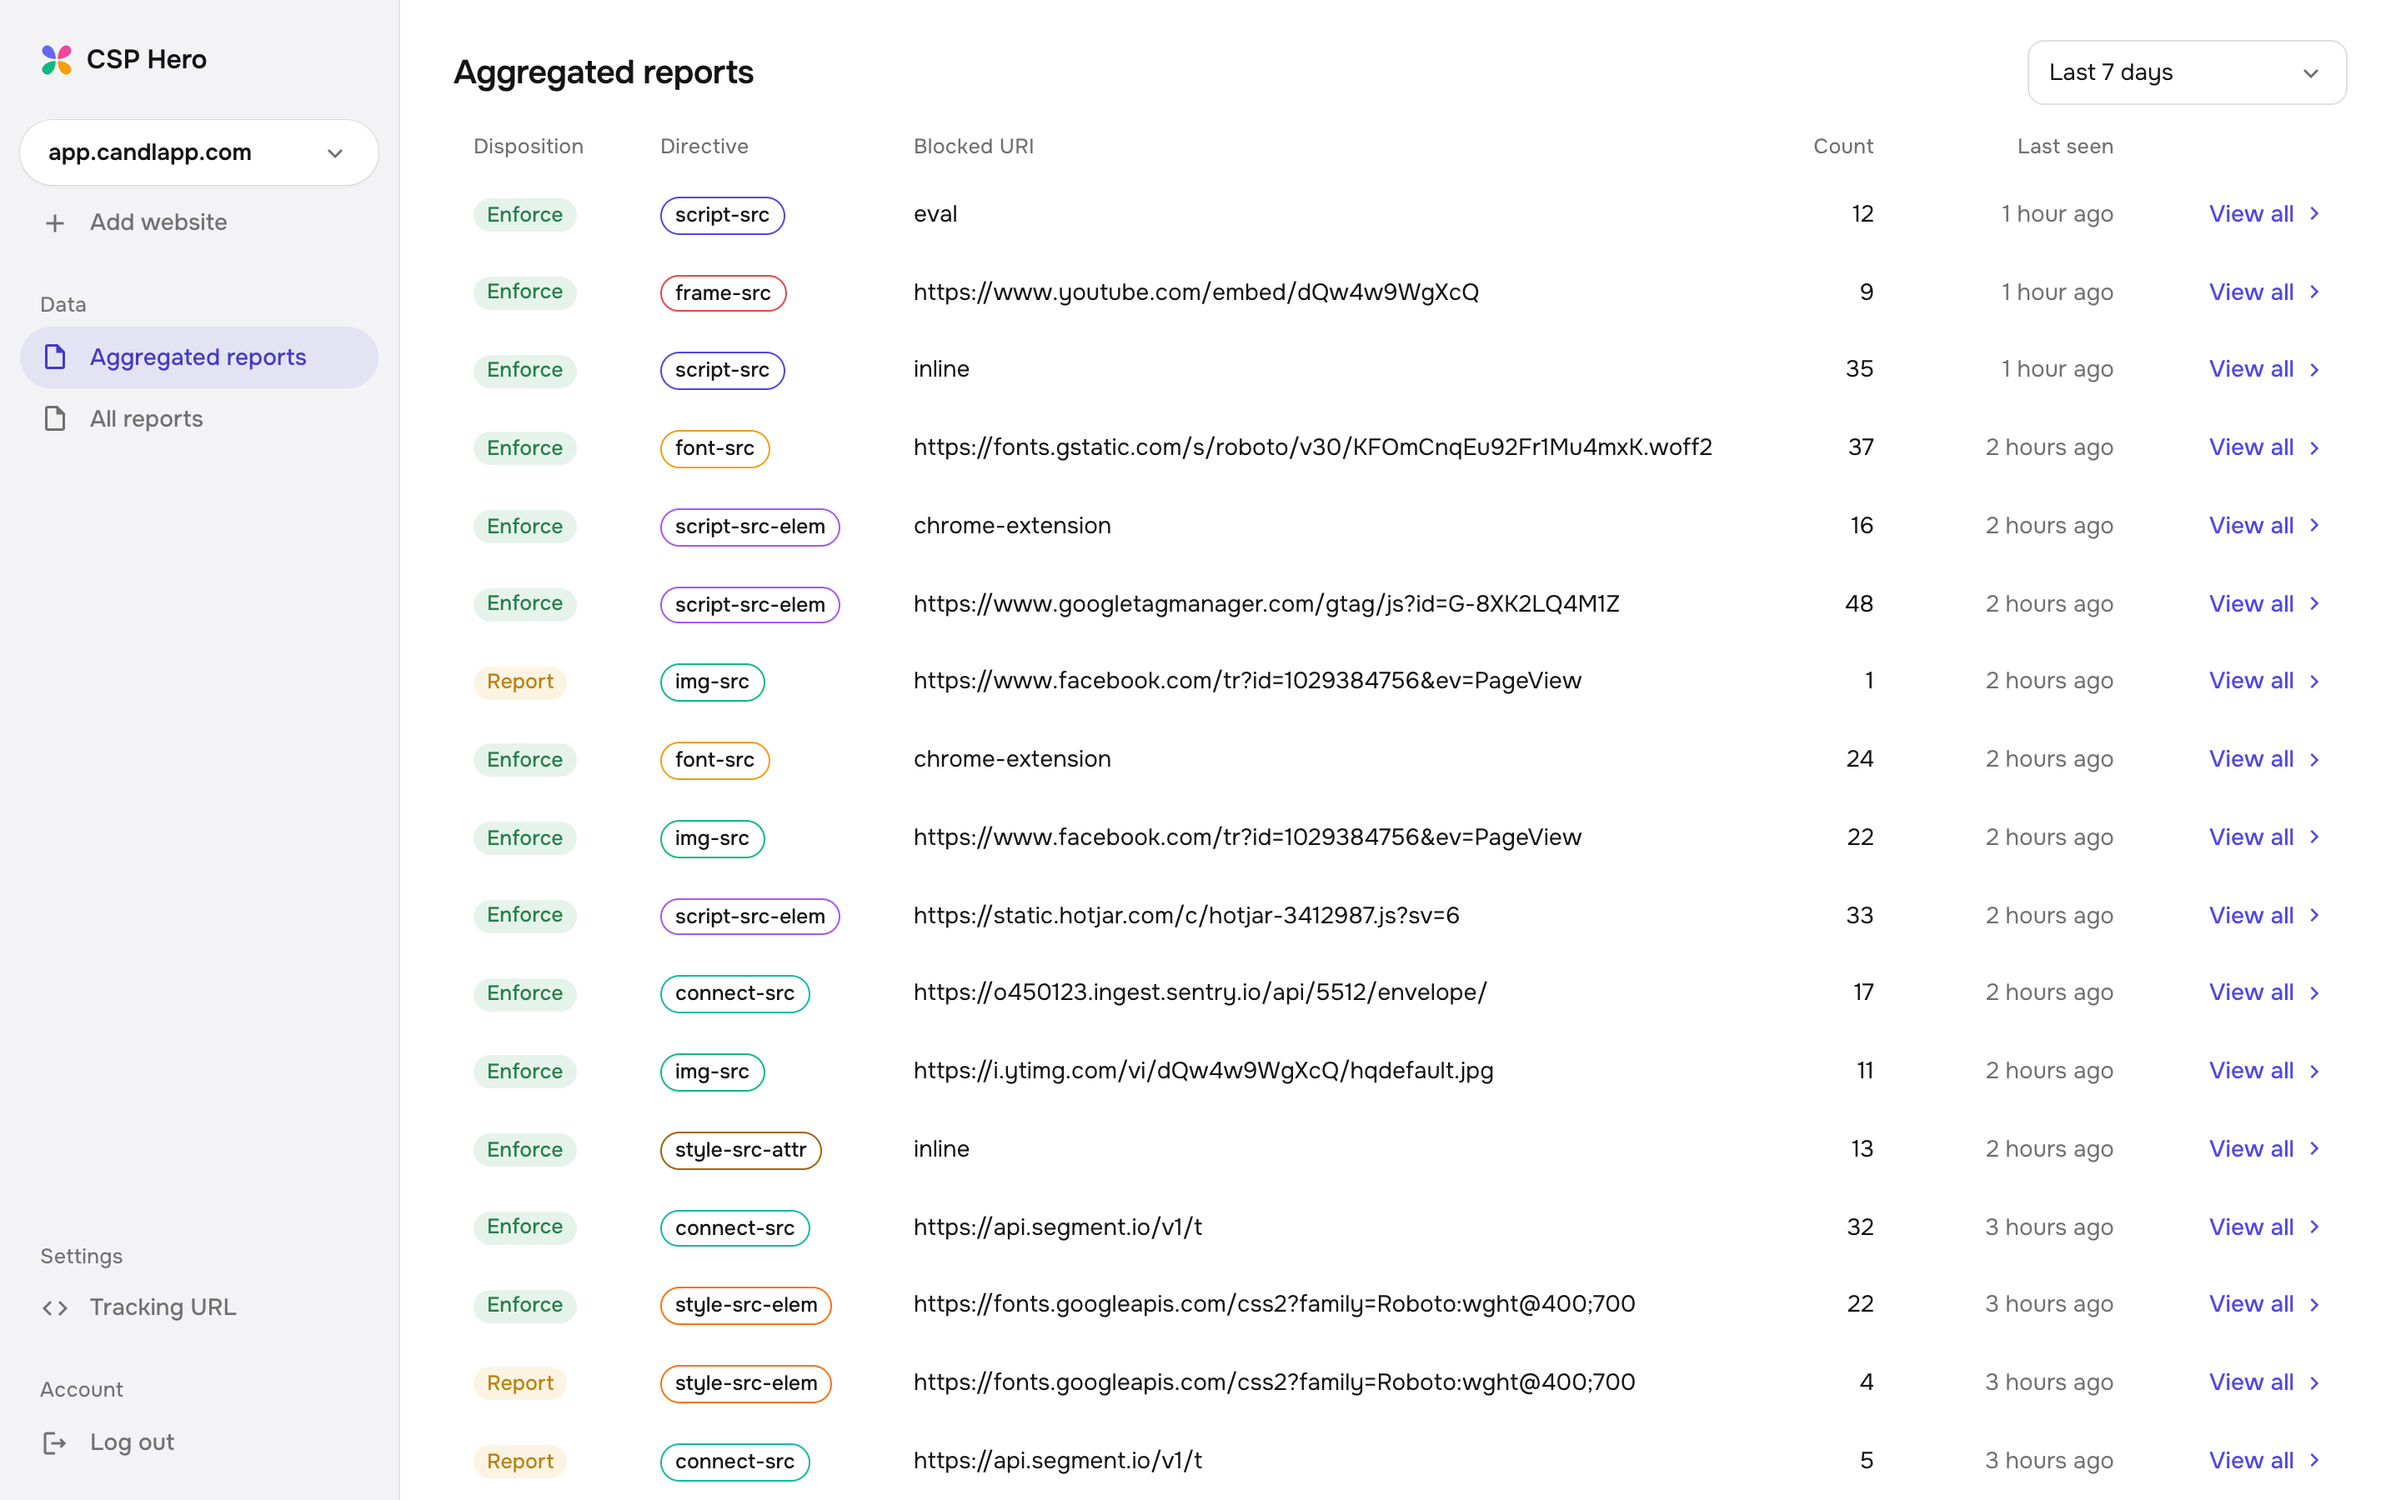
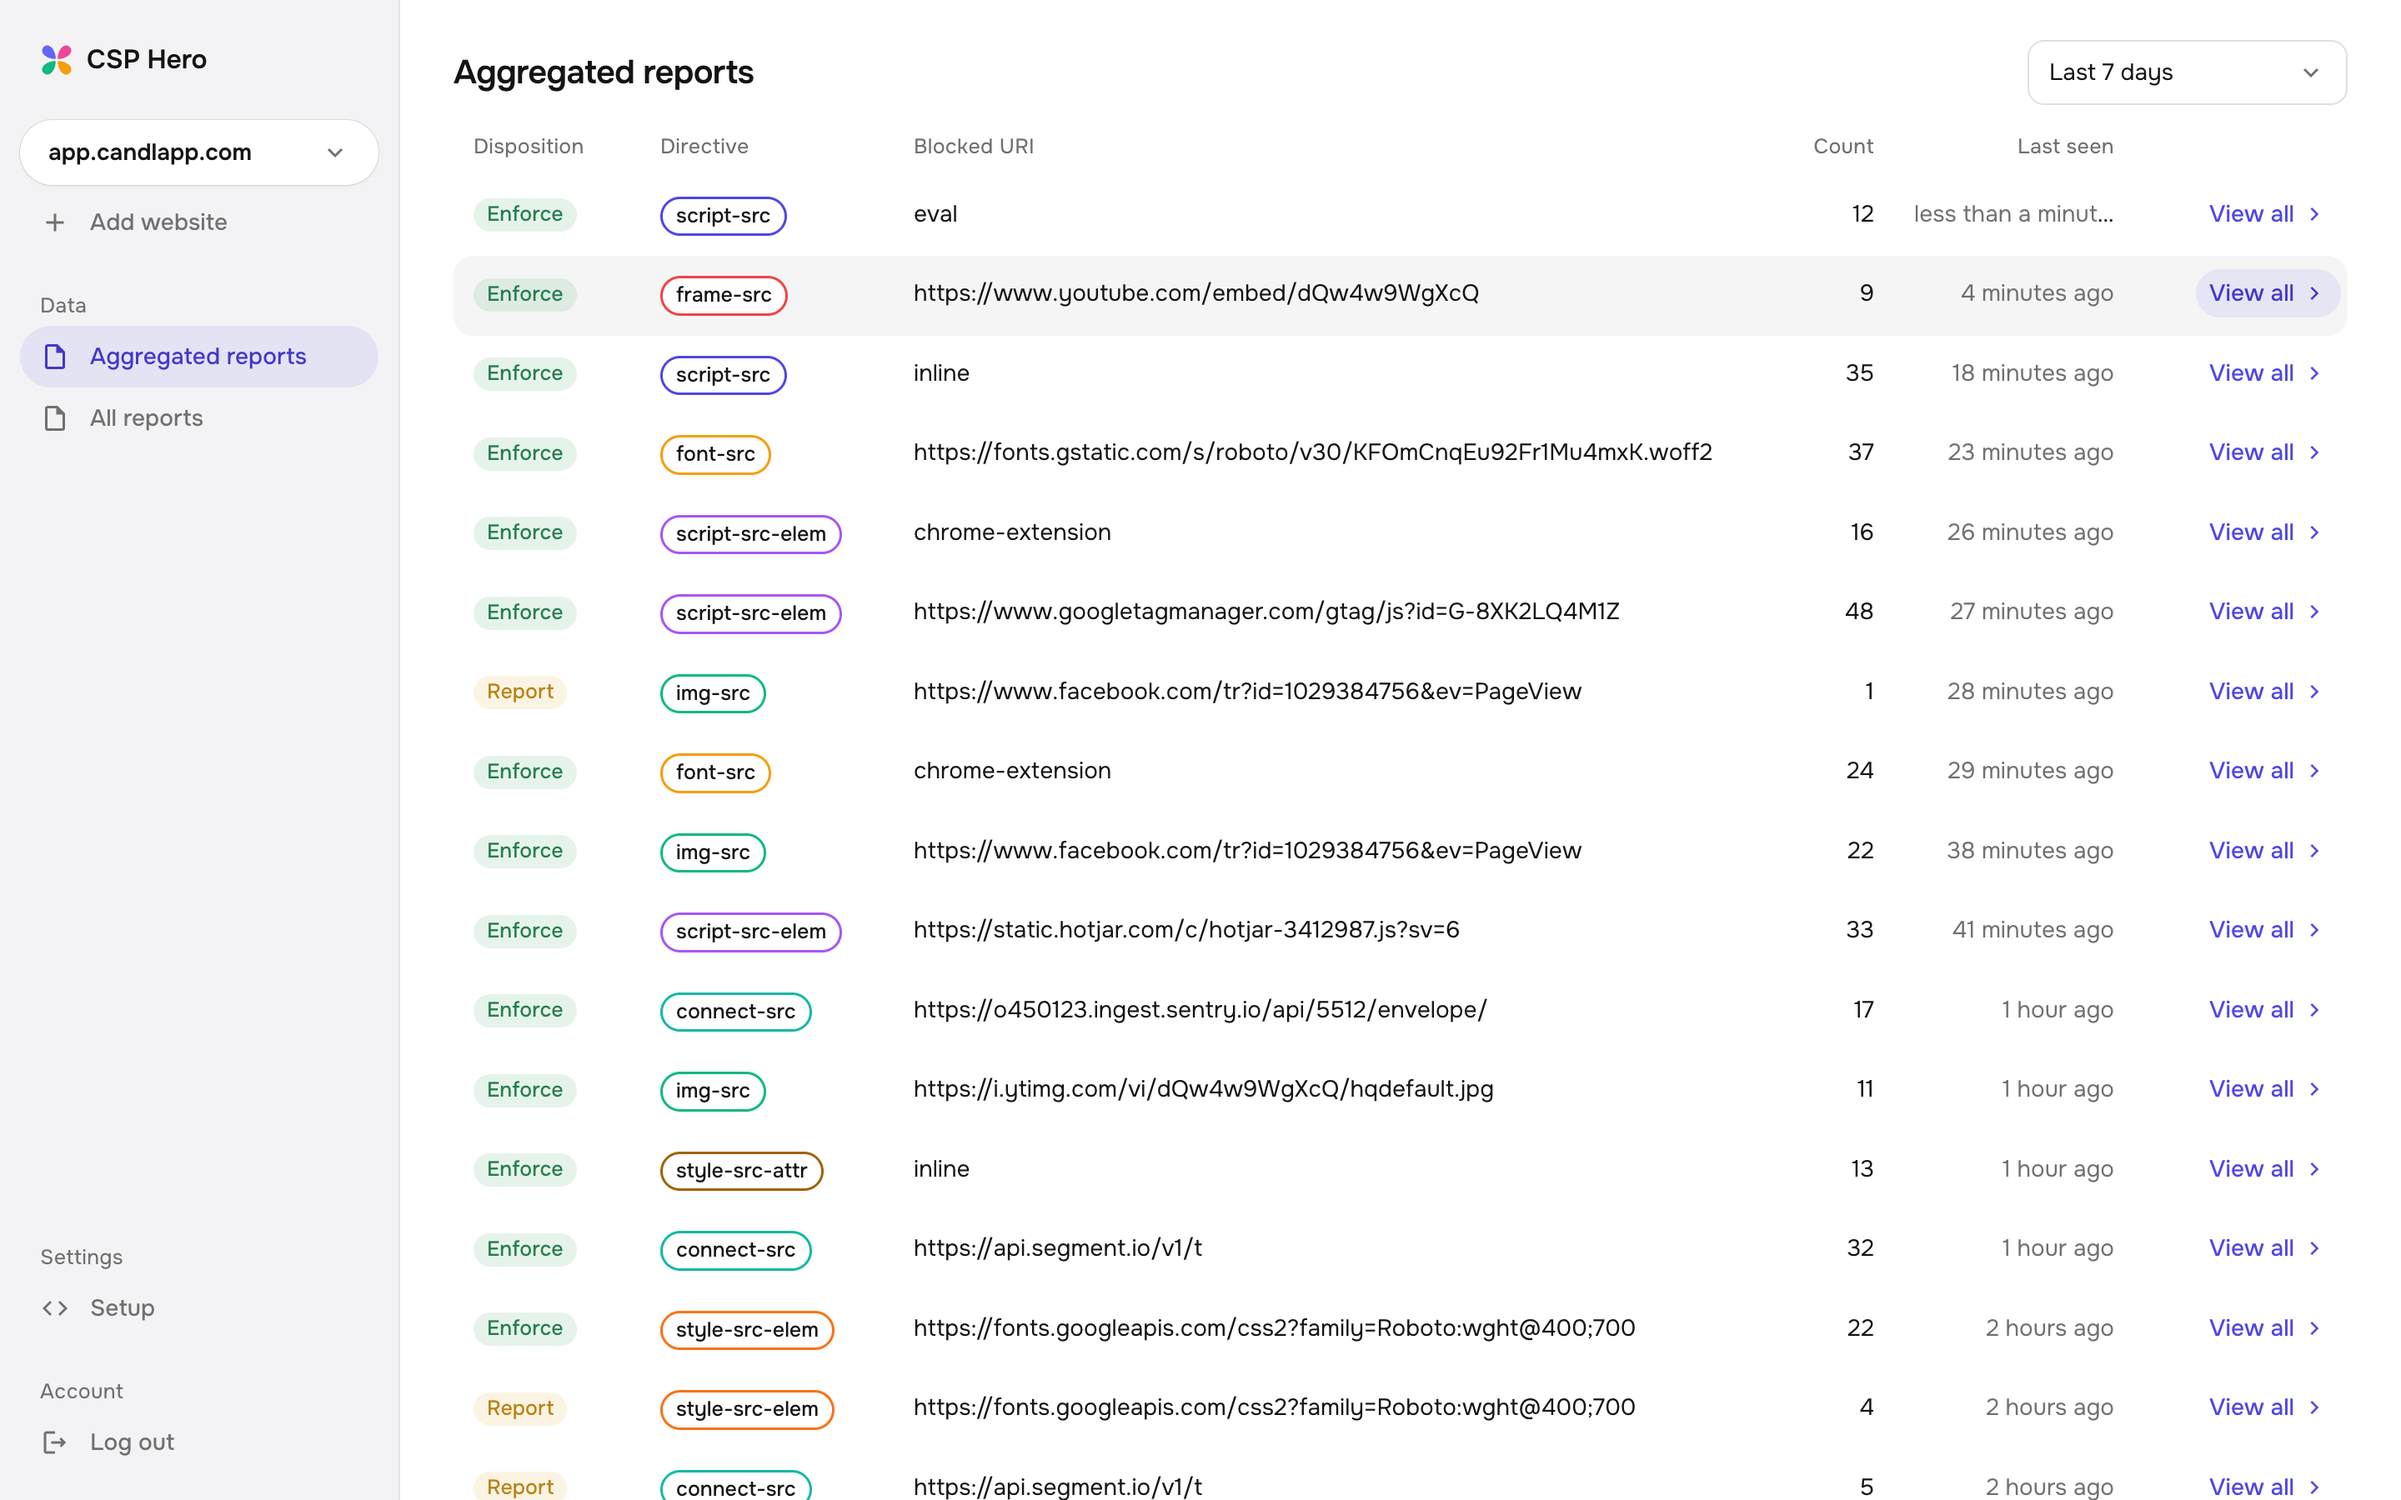
multiple misc fixes

diff --git a/app/javascript/app/setup/DeleteWebsite.tsx b/app/javascript/app/setup/DeleteWebsite.tsx
@@ -1,0 +1,68 @@
+import * as React from "react";
+import { useState } from "react";
+import { useNavigate } from "react-router-dom";
+import Api from "../api";
+import type { Website } from "../models";
+
+const DeleteWebsite: React.FC<{
+  website: Website;
+  onDeleted: () => Promise<void>;
+}> = ({ website, onDeleted }) => {
+  const [confirming, setConfirming] = useState(false);
+  const [deleting, setDeleting] = useState(false);
+  const navigate = useNavigate();
+
+  const deleteWebsite = async () => {
+    setDeleting(true);
+    await Api.websites.destroy(website.id);
+    await onDeleted();
+    navigate("/");
+  };
+
+  if (!confirming) {
+    return (
+      <div className="delete-website">
+        <p>
+          Removes {website.domain} and every report collected for it. Reports
+          still sent to its endpoint afterwards are rejected.
+        </p>
+        <button
+          type="button"
+          className="humble"
+          onClick={() => setConfirming(true)}
+        >
+          Delete website
+        </button>
+      </div>
+    );
+  }
+
+  return (
+    <div className="delete-website confirming">
+      <p>
+        Delete <b>{website.domain}</b> and all of its reports? This cannot be
+        undone.
+      </p>
+      <div className="delete-website-actions">
+        <button
+          type="button"
+          className="danger"
+          onClick={deleteWebsite}
+          disabled={deleting}
+        >
+          {deleting ? "Deleting…" : "Yes, delete it"}
+        </button>
+        <button
+          type="button"
+          className="humble"
+          onClick={() => setConfirming(false)}
+          disabled={deleting}
+        >
+          Cancel
+        </button>
+      </div>
+    </div>
+  );
+};
+
+export default DeleteWebsite;

diff --git a/app/javascript/app/pages/DomainEditPage.tsx b/app/javascript/app/pages/DomainEditPage.tsx
@@ -3,12 +3,16 @@ import { useParams } from "react-router-dom";
 import CopyField from "../components/copy/CopyField";
 import type { User } from "../models";
 import AlertSettings from "../setup/AlertSettings";
+import DeleteWebsite from "../setup/DeleteWebsite";
 import FirstReportStatus from "../setup/FirstReportStatus";
 import reportEndpoint from "../setup/reportEndpoint";
 import SetupSnippets from "../setup/SetupSnippets";
 import useWebsite from "../setup/useWebsite";
 
-const DomainEditPage: React.FC<{ user: User }> = ({ user }) => {
+const DomainEditPage: React.FC<{
+  user: User;
+  onWebsiteDeleted: () => Promise<void>;
+}> = ({ user, onWebsiteDeleted }) => {
   const { id } = useParams<{ id: string }>();
   const website = useWebsite(id);
 
@@ -54,6 +58,15 @@ const DomainEditPage: React.FC<{ user: User }> = ({ user }) => {
         <section className="i2 setup-option">
           <h2>3. Get emailed when something changes</h2>
           <AlertSettings key={website.id} website={website} user={user} />
+        </section>
+
+        <section className="i2 setup-option">
+          <h2>Delete this website</h2>
+          <DeleteWebsite
+            key={website.id}
+            website={website}
+            onDeleted={onWebsiteDeleted}
+          />
         </section>
       </div>
     </main>

diff --git a/app/javascript/app/styles/components/delete-website.scss b/app/javascript/app/styles/components/delete-website.scss
@@ -1,0 +1,24 @@
+@use "../foundation/vars" as *;
+@use "../foundation/mixins" as *;
+
+.delete-website {
+  &.confirming p {
+    color: var(--color-text);
+  }
+
+  .delete-website-actions {
+    display: flex;
+    gap: $unit1;
+  }
+
+  button.danger {
+    @include button-base;
+    background-color: var(--color-danger);
+    color: var(--color-accent-contrast);
+    @include transition(opacity);
+
+    &:hover:not(:disabled) {
+      opacity: 0.9;
+    }
+  }
+}

diff --git a/app/javascript/app/App.tsx b/app/javascript/app/App.tsx
@@ -61,7 +61,7 @@ const App: React.FC = () => {
           </Route>
           <Route
             path="/domains/:id/edit"
-            element={<DomainEditPage user={me} />}
+            element={<DomainEditPage user={me} onWebsiteDeleted={loadMe} />}
           />
         </Routes>
       </div>

diff --git a/app/javascript/app/api.ts b/app/javascript/app/api.ts
@@ -111,6 +111,8 @@ export default {
       id: number | string,
       settings: Partial<AlertSettings>
     ): Promise<Website> => api("PATCH", `/websites/${id}`, settings),
+    destroy: (id: number | string): Promise<null> =>
+      api("DELETE", `/websites/${id}`),
   },
 };
 

diff --git a/app/javascript/app/styles/index.scss b/app/javascript/app/styles/index.scss
@@ -23,6 +23,7 @@
 @use "components/first-report-status";
 @use "components/no-reports-yet";
 @use "components/alert-settings";
+@use "components/delete-website";
 
 @use "pages/domain";
 @use "pages/home";

diff --git a/test/integration/website_deletion_api_test.rb b/test/integration/website_deletion_api_test.rb
@@ -1,0 +1,51 @@
+require "test_helper"
+
+class WebsiteDeletionApiTest < ActionDispatch::IntegrationTest
+  include Devise::Test::IntegrationHelpers
+
+  setup do
+    Rails.application.reload_routes_unless_loaded
+    @website = create_account
+    sign_in @website.company.users.first
+  end
+
+  test "deleting a website removes its reports and violations" do
+    create_report(@website)
+    create_violation(@website)
+
+    delete "/api/websites/#{@website.id}"
+
+    assert_response :no_content
+    assert_not Website.exists?(@website.id)
+    assert_equal 0, Report.where(website_id: @website.id).count
+    assert_equal 0, Violation.where(website_id: @website.id).count
+  end
+
+  test "a deleted website's endpoint stops accepting reports" do
+    token = @website.token
+    delete "/api/websites/#{@website.id}"
+
+    post "/report/#{token}", params: { "csp-report" => {} }.to_json, headers: { "Content-Type" => "application/csp-report" }
+
+    assert_response :unprocessable_entity
+  end
+
+  test "other websites of the account are left alone" do
+    other = @website.company.websites.create!(domain: "other.org")
+    create_report(other)
+
+    delete "/api/websites/#{@website.id}"
+
+    assert Website.exists?(other.id)
+    assert_equal 1, other.reports.count
+  end
+
+  test "another account's website cannot be deleted" do
+    stranger = create_account(email: "stranger@example.com", domain: "stranger.org")
+
+    delete "/api/websites/#{stranger.id}"
+
+    assert_response :not_found
+    assert Website.exists?(stranger.id)
+  end
+end

diff --git a/test/models/report_test.rb b/test/models/report_test.rb
@@ -184,4 +184,19 @@ class ReportTest < ActiveSupport::TestCase
 
     assert_equal "not json at all", report.go_json[:raw_body]
   end
+
+  test "reads the user agent of reports stored before headers were trimmed" do
+    ws = Company.create!(name: "Candl").websites.create!(domain: "domain.org")
+    legacy = { "HTTP_HOST" => "csphero.com", "HTTP_USER_AGENT" => "Mozilla/5.0 (X11; Linux x86_64; rv:140.0) Gecko/20100101 Firefox/140.0" }.inspect
+    report = Report.create!(raw_body: "{}", raw_headers: legacy, website: ws)
+
+    assert_equal "Firefox", report.user_agent_data[:family]
+  end
+
+  test "a report without stored headers has an unknown user agent" do
+    ws = Company.create!(name: "Candl").websites.create!(domain: "domain.org")
+    report = Report.create!(raw_body: "{}", website: ws)
+
+    assert_equal "Other", report.user_agent_data[:family]
+  end
 end

diff --git a/test/integration/report_ingestion_test.rb b/test/integration/report_ingestion_test.rb
@@ -23,6 +23,20 @@ class ReportIngestionTest < ActionDispatch::IntegrationTest
     assert_response :accepted
   end
 
+  test "keeps the user agent and drops every other request header" do
+    post "/report/#{@website.token}", params: BODY, headers: {
+      "Content-Type" => "application/csp-report",
+      "User-Agent" => "Mozilla/5.0 (X11; Linux x86_64; rv:140.0) Gecko/20100101 Firefox/140.0",
+      "X-Forwarded-For" => "203.0.113.7",
+      "Cookie" => "session=secret"
+    }
+
+    report = @website.reports.sole
+    assert_equal ["HTTP_USER_AGENT"], JSON.parse(report.raw_headers).keys
+    assert_not_includes report.raw_headers, "203.0.113.7"
+    assert_equal "Firefox", report.user_agent_data[:family]
+  end
+
   test "rejects an unknown token" do
     assert_no_difference -> { Report.count } do
       send_report("unknown")

diff --git a/db/seeds/development/request_headers.rb b/db/seeds/development/request_headers.rb
@@ -1,6 +1,6 @@
 module DevSeeds
-  # The request headers a browser sends with a report, stored the way the
-  # report endpoint stores them (a Ruby hash inspect).
+  # The request headers kept with a report, stored the way the report endpoint
+  # stores them, plus a marker to find seeded reports again.
   module RequestHeaders
     MARKER = "HTTP_X_CSPHERO_SEED".freeze
 
@@ -12,13 +12,11 @@ module DevSeeds
       "Mozilla/5.0 (Linux; Android 16; Pixel 9) AppleWebKit/537.36 (KHTML, like Gecko) Chrome/148.0.0.0 Mobile Safari/537.36",
     ].freeze
 
-    def self.build(host:, random:)
+    def self.build(random:)
       {
-        "HTTP_HOST" => host,
         "HTTP_USER_AGENT" => USER_AGENTS.sample(random: random),
-        "HTTP_ACCEPT" => "*/*",
         MARKER => "1",
-      }.inspect
+      }.to_json
     end
   end
 end

diff --git a/app/models/report/stored_headers.rb b/app/models/report/stored_headers.rb
@@ -1,0 +1,33 @@
+# The request headers kept with a report: only the ones the dashboard shows.
+# Everything else a browser or proxy sends, the visitor's IP address included,
+# is dropped before the report is stored.
+class Report::StoredHeaders
+  KEPT = %w[HTTP_USER_AGENT].freeze
+
+  def self.from_request(request)
+    new(request.headers.env.slice(*KEPT))
+  end
+
+  def self.load(text)
+    new(parse(text.to_s))
+  end
+
+  # older reports hold a Ruby hash inspect instead of JSON
+  def self.parse(text)
+    JSON.parse(text)
+  rescue JSON::ParserError
+    JSON.parse(text.gsub("=>", ":")) rescue {}
+  end
+
+  def initialize(headers)
+    @headers = headers.to_h.slice(*KEPT)
+  end
+
+  def user_agent
+    @headers["HTTP_USER_AGENT"]
+  end
+
+  def to_json(*)
+    @headers.to_json
+  end
+end

diff --git a/db/migrate/20261125110000_scrub_report_headers.rb b/db/migrate/20261125110000_scrub_report_headers.rb
@@ -1,0 +1,19 @@
+# Reports used to keep every request header, including proxy headers with the
+# visitor's IP address. Only the user agent is ever shown, so keep just that.
+class ScrubReportHeaders < ActiveRecord::Migration[8.1]
+  LEGACY_FORMAT = '^\{"[A-Z0-9_]+"\s*=>'
+  USER_AGENT = '"HTTP_USER_AGENT"\s*=>\s*"([^"]*)"'
+  DEV_SEED_MARKER = "%HTTP_X_CSPHERO_SEED%"
+
+  def up
+    execute <<~SQL.squish
+      UPDATE reports
+      SET raw_headers = json_build_object('HTTP_USER_AGENT', substring(raw_headers from #{quote(USER_AGENT)}))::text
+      WHERE raw_headers ~ #{quote(LEGACY_FORMAT)} AND raw_headers NOT LIKE #{quote(DEV_SEED_MARKER)}
+    SQL
+  end
+
+  def down
+    raise ActiveRecord::IrreversibleMigration
+  end
+end
